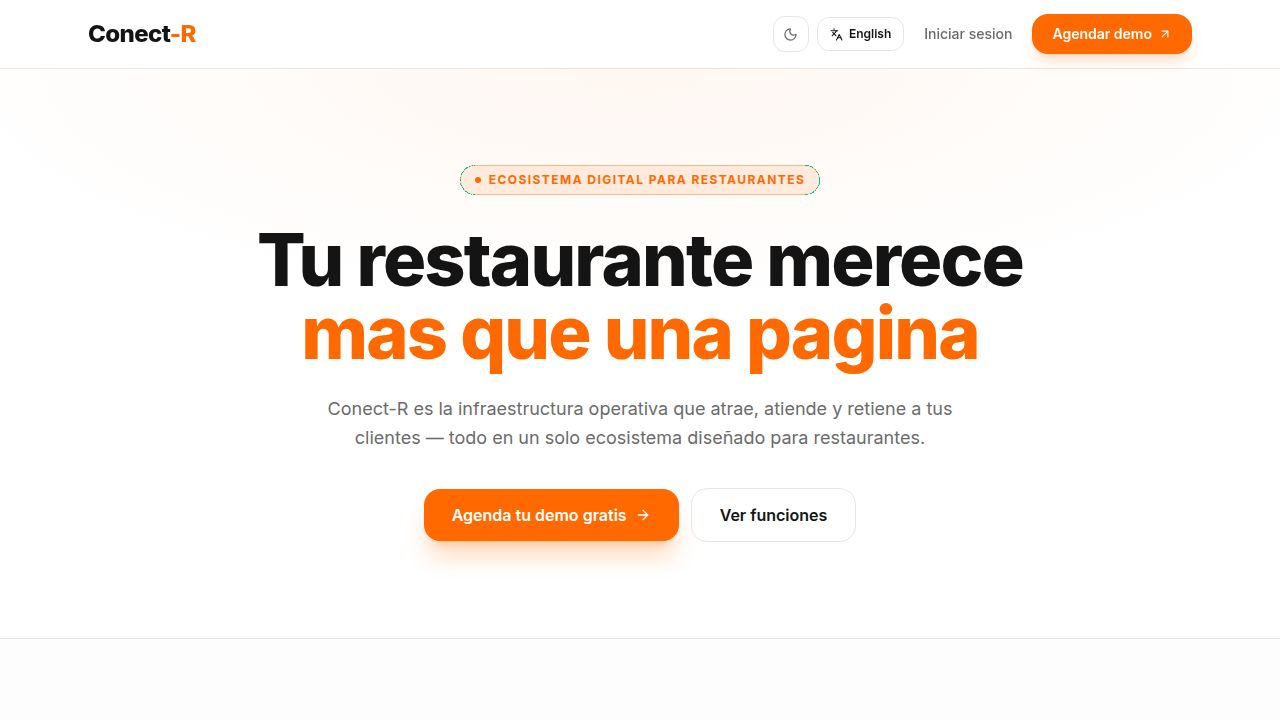
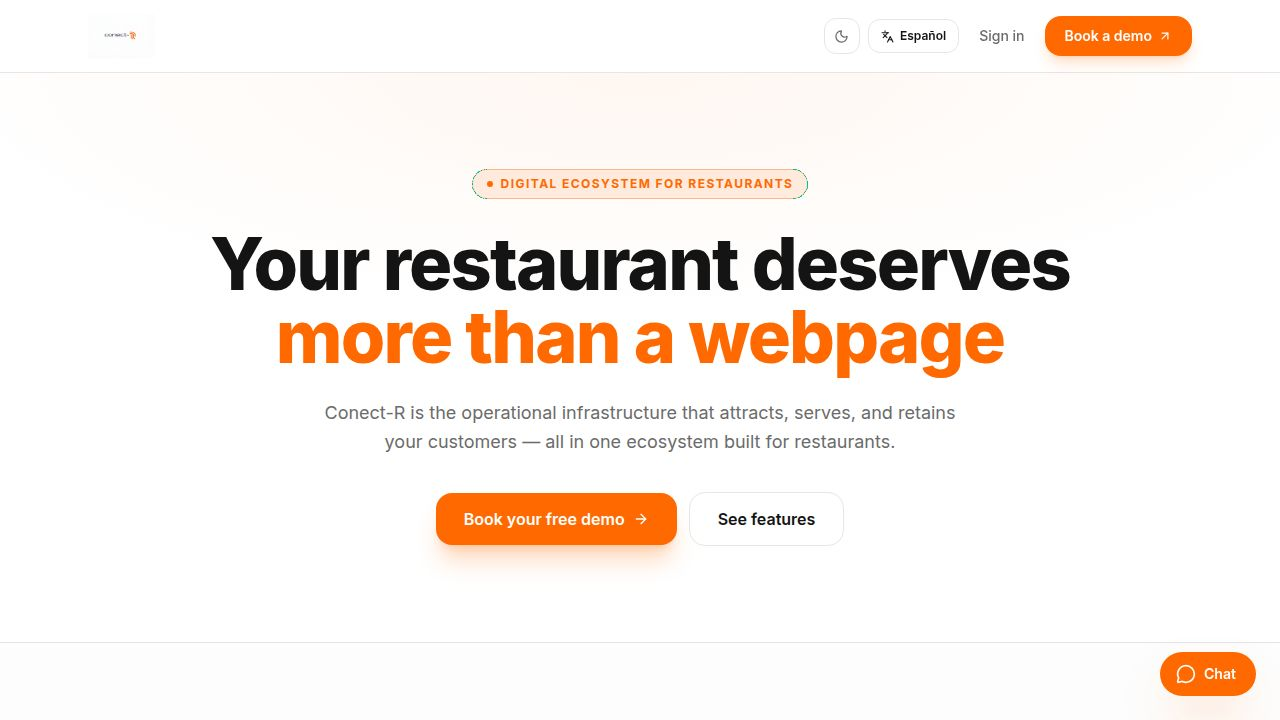
Update dashboard and restaurant menu with new branding and event features
Update Conect-R Dashboard to use an orange logo, remove the 'Projection' module, and re-theme the 'Chamba' section to orange. Enhance the Maya Cantina menu by adding an 'Upcoming Events' section, updating the address and operating hours, and replacing the 'Reserve Table' button with a link to the new events section.

Replit-Commit-Author: Agent
Replit-Commit-Session-Id: ad239d22-0fc0-4085-8d8a-514f75f98570
Replit-Commit-Checkpoint-Type: full_checkpoint
Replit-Commit-Event-Id: c524c5c3-b7be-4577-91ac-88dc84019778
Replit-Commit-Screenshot-Url: https://storage.googleapis.com/screenshot-production-us-central1/781c2eb4-d6fe-4788-91f9-eb0cdfc93976/ad239d22-0fc0-4085-8d8a-514f75f98570/hJeGd2k
Replit-Helium-Checkpoint-Created: true

diff --git a/artifacts/maya-menu/src/pages/Menu.tsx b/artifacts/maya-menu/src/pages/Menu.tsx
@@ -254,7 +254,7 @@ export default function Menu() {
         <div className="container mx-auto px-4 flex justify-between items-center relative">
           <div className={`transition-all duration-500 ease-in-out ${scrolled ? 'opacity-0 scale-95 pointer-events-none absolute' : 'opacity-100 scale-100 relative'} flex flex-col items-center justify-center w-full`}>
             <img src={`${import.meta.env.BASE_URL}maya-logo.jpeg`} alt="Maya Cantina" className="w-24 h-24 object-contain rounded-full shadow-lg border-2 border-[#D35400]/20 mb-3" />
-            <p className="text-xs text-gray-400 mt-1 uppercase tracking-widest text-center font-medium">Cocina Mexicana Autentica • Sacramento, CA</p>
+            <p className="text-xs text-gray-400 mt-1 uppercase tracking-widest text-center font-medium">Cocina Mexicana Autentica • 455 Bercut Dr, Sacramento, CA 95811</p>
           </div>
           
           <div className={`transition-all duration-500 flex items-center gap-3 ${scrolled ? 'opacity-100 translate-x-0' : 'opacity-0 -translate-x-4 pointer-events-none absolute'}`}>
@@ -262,13 +262,15 @@ export default function Menu() {
             <div className="text-xl font-serif font-bold text-[#D35400]">MAYA</div>
           </div>
 
-          <a 
-            href="https://tablereserve.conect-r.com/book/roosters-on-the-river" 
-            target="_blank" 
-            rel="noreferrer"
-            className={`bg-[#D35400] hover:bg-[#D35400]/90 text-white text-xs font-bold py-2.5 px-5 rounded-full uppercase tracking-wider transition-all shadow-[0_4px_14px_rgba(211,84,0,0.4)] ${scrolled ? '' : 'absolute right-4 top-4'}`}
+          <a
+            href="#eventos"
+            onClick={(e) => {
+              e.preventDefault();
+              document.getElementById("eventos")?.scrollIntoView({ behavior: "smooth", block: "start" });
+            }}
+            className={`bg-[#D35400] hover:bg-[#D35400]/90 text-white text-[11px] font-bold py-2 px-3.5 rounded-full uppercase tracking-wider transition-all shadow-[0_4px_14px_rgba(211,84,0,0.4)] ${scrolled ? '' : 'absolute right-3 top-3'}`}
           >
-            Reservar Mesa
+            Próximos Eventos
           </a>
         </div>
 
@@ -382,6 +384,95 @@ export default function Menu() {
         )}
       </main>
 
+      {/* Eventos */}
+      <section id="eventos" className="container mx-auto px-4 mt-16 scroll-mt-32">
+        <div className="text-center mb-8">
+          <h2 className="text-3xl md:text-4xl font-serif font-bold text-[#F0A500] tracking-wide mb-2">Próximos Eventos</h2>
+          <p className="text-gray-400 text-sm">Música en vivo, shows y noches especiales en Maya Cantina</p>
+        </div>
+
+        <div className="grid grid-cols-1 md:grid-cols-2 gap-6">
+          {[
+            {
+              id: "mariachi",
+              day: "Viernes",
+              time: "8:00 PM",
+              title: "Noche de Mariachi",
+              desc: "Los mejores mariachis de Sacramento llenan la cantina con tradición, sabor y romance. Música en vivo toda la noche.",
+              img: "https://images.unsplash.com/photo-1571266028253-6c1f7c75e1f0?w=800&h=600&fit=crop",
+              fallbackEmoji: "🎺",
+              color: "from-[#D35400] to-[#F0A500]",
+            },
+            {
+              id: "banda",
+              day: "Sábado",
+              time: "9:00 PM",
+              title: "Banda Machos en Vivo",
+              desc: "La legendaria Banda Machos llega a Maya Cantina. Una noche de banda, baile y energía pura. Cupo limitado.",
+              img: "https://images.unsplash.com/photo-1493225457124-a3eb161ffa5f?w=800&h=600&fit=crop",
+              fallbackEmoji: "🎷",
+              color: "from-[#7c2d12] to-[#D35400]",
+            },
+            {
+              id: "badbunny",
+              day: "Domingo",
+              time: "8:30 PM",
+              title: "Bad Bunny — Tributo en Vivo",
+              desc: "El mejor imitador de Bad Bunny de la costa oeste. Reggaetón, baile y ambiente de estadio en plena cantina.",
+              img: "https://images.unsplash.com/photo-1504680177321-2e6a879aac86?w=800&h=600&fit=crop",
+              fallbackEmoji: "🐰",
+              color: "from-[#a21caf] to-[#D35400]",
+            },
+            {
+              id: "pajares",
+              day: "Todos los Domingos",
+              time: "1:00 PM",
+              title: "Pajares — Show Familiar",
+              desc: "Los Pajares cada domingo: comedia, música y diversión para toda la familia mientras disfrutas el brunch.",
+              img: "https://images.unsplash.com/photo-1514525253161-7a46d19cd819?w=800&h=600&fit=crop",
+              fallbackEmoji: "🎭",
+              color: "from-[#2E7D32] to-[#F0A500]",
+            },
+          ].map((ev, i) => (
+            <motion.div
+              key={ev.id}
+              initial={{ opacity: 0, y: 30 }}
+              whileInView={{ opacity: 1, y: 0 }}
+              viewport={{ once: true, margin: "-50px" }}
+              transition={{ delay: i * 0.08, duration: 0.5 }}
+              className="bg-[#1A1A1A] rounded-3xl overflow-hidden shadow-xl border border-white/5 flex flex-col"
+            >
+              <div className={`h-56 w-full relative overflow-hidden bg-gradient-to-br ${ev.color}`}>
+                <img
+                  src={ev.img}
+                  alt={ev.title}
+                  className="w-full h-full object-cover opacity-70"
+                  loading="lazy"
+                  onError={(e) => { (e.target as HTMLImageElement).style.display = "none"; }}
+                />
+                <div className="absolute inset-0 bg-gradient-to-t from-[#1A1A1A] via-[#1A1A1A]/30 to-transparent" />
+                <div className="absolute top-4 left-4 bg-black/60 backdrop-blur-md px-3 py-1.5 rounded-full text-xs font-bold text-white uppercase tracking-wider">
+                  {ev.day} · {ev.time}
+                </div>
+                <div className="absolute bottom-4 right-4 text-5xl drop-shadow-lg">{ev.fallbackEmoji}</div>
+              </div>
+              <div className="p-6 flex-1 flex flex-col">
+                <h3 className="font-serif font-bold text-2xl leading-tight text-white mb-2">{ev.title}</h3>
+                <p className="text-gray-400 text-sm leading-relaxed flex-1 mb-5">{ev.desc}</p>
+                <a
+                  href="https://tablereserve.conect-r.com/book/roosters-on-the-river"
+                  target="_blank"
+                  rel="noreferrer"
+                  className="bg-[#D35400] hover:bg-[#D35400]/90 text-white text-sm font-bold py-3 px-5 rounded-2xl uppercase tracking-wider transition-all shadow-[0_4px_14px_rgba(211,84,0,0.4)] text-center"
+                >
+                  Reservar Mesa para el Evento
+                </a>
+              </div>
+            </motion.div>
+          ))}
+        </div>
+      </section>
+
       {/* Floating Socials */}
       <div className="fixed bottom-8 right-6 flex flex-col gap-4 z-30">
         <a 
@@ -407,11 +498,10 @@ export default function Menu() {
         <img src={`${import.meta.env.BASE_URL}maya-logo.jpeg`} alt="Maya Cantina" className="w-16 h-16 object-contain rounded-full mx-auto opacity-50 mb-6 grayscale" />
         <div className="font-serif text-2xl font-bold text-[#D35400] mb-4 opacity-80 tracking-widest">MAYA CANTINA</div>
         <div className="flex justify-center items-center gap-2 text-sm text-gray-400 mb-6 font-medium">
-          <MapPin size={16} className="text-[#F0A500]"/> Sacramento, CA
+          <MapPin size={16} className="text-[#F0A500]"/> 455 Bercut Dr, Sacramento, CA 95811
         </div>
         <div className="text-sm text-gray-500 space-y-3 max-w-xs mx-auto bg-white/5 p-4 rounded-2xl">
-          <p className="flex items-center justify-center gap-3"><Clock size={16} className="text-[#2E7D32]"/> Mar-Dom 5pm–10pm</p>
-          <p className="flex items-center justify-center gap-3"><Clock size={16} className="text-[#2E7D32]"/> Dom Brunch 11am–3pm</p>
+          <p className="flex items-center justify-center gap-3"><Clock size={16} className="text-[#2E7D32]"/> Lun-Dom 9am–10pm</p>
         </div>
         <div className="mt-10 pt-8 border-t border-white/5 text-xs text-gray-600 font-medium">
           <a href="https://mayacantina.toast.site" className="hover:text-[#D35400] transition-colors">mayacantina.toast.site</a>
@@ -497,7 +587,7 @@ export default function Menu() {
         )}
       </AnimatePresence>
 
-      <style dangerouslySetContentEditable>{`
+      <style>{`
         .hide-scrollbar::-webkit-scrollbar {
           display: none;
         }

diff --git a/artifacts/conectr-dashboard/src/components/modules/GestionOperativa.tsx b/artifacts/conectr-dashboard/src/components/modules/GestionOperativa.tsx
@@ -92,10 +92,10 @@ export default function GestionOperativa() {
       <div className="text-center">
         <h2 className="text-3xl font-serif font-bold gold-gradient mb-2">{T.heading}</h2>
         <p className="text-muted-foreground max-w-2xl mx-auto mb-4">
-          {T.description} <span className="text-orange-500 font-medium">{T.descSales}</span> {T.descAnd}{" "}
-          <span className="text-orange-500 font-medium">{T.descClients}</span> {T.descMid}{" "}
-          <span className="text-orange-500 font-medium">{T.descWork}</span> {T.descAnd2}{" "}
-          <span className="text-orange-500 font-medium">{T.descReviews}</span>.
+          {T.description} {T.descSales} {T.descAnd}{" "}
+          {T.descClients} {T.descMid}{" "}
+          {T.descWork} {T.descAnd2}{" "}
+          {T.descReviews}.
         </p>
         <ImpactPills />
         <div className="inline-block bg-orange-900/20 border border-orange-700/40 rounded-2xl px-6 py-3">
@@ -375,28 +375,28 @@ export default function GestionOperativa() {
       </AnimatePresence>
 
       {/* Chamba */}
-      <div className="maya-card rounded-2xl p-6 border border-blue-800/30" style={{ background: "linear-gradient(135deg, rgba(30,58,138,0.12), rgba(15,23,42,0.8))" }}>
+      <div className="maya-card rounded-2xl p-6 border border-orange-800/30" style={{ background: "linear-gradient(135deg, rgba(249,115,22,0.12), rgba(15,23,42,0.8))" }}>
         <div className="flex items-start gap-4 mb-5">
-          <div className="w-16 h-16 rounded-2xl bg-white/5 border border-blue-700/30 flex items-center justify-center shrink-0 overflow-hidden">
+          <div className="w-16 h-16 rounded-2xl bg-white/5 border border-orange-700/30 flex items-center justify-center shrink-0 overflow-hidden">
             <img src="/chamba-logo.png" alt="Chamba" className="w-14 h-14 object-contain" />
           </div>
           <div className="flex-1">
             <div className="flex items-center gap-2 mb-1">
-              <h4 className="text-base font-bold text-blue-300">{T.chambaTitle}</h4>
-              <span className="text-xs px-2 py-0.5 bg-blue-500/15 border border-blue-500/30 text-blue-300 rounded-full">{T.chambaBadge}</span>
+              <h4 className="text-base font-bold text-orange-300">{T.chambaTitle}</h4>
+              <span className="text-xs px-2 py-0.5 bg-orange-500/15 border border-orange-500/30 text-orange-300 rounded-full">{T.chambaBadge}</span>
             </div>
             <p className="text-sm text-muted-foreground">
-              {T.chambaDesc} <span className="text-blue-300 font-medium">{T.chambaHighlight}</span> {T.chambaDesc2}
+              {T.chambaDesc} {T.chambaHighlight} {T.chambaDesc2}
             </p>
           </div>
         </div>
 
         <div className="grid grid-cols-1 sm:grid-cols-2 lg:grid-cols-3 gap-3">
           {T.chambaFeatures.map(item => (
-            <div key={item.title} className="flex gap-3 p-3 bg-blue-900/10 border border-blue-800/20 rounded-xl">
+            <div key={item.title} className="flex gap-3 p-3 bg-orange-900/10 border border-orange-800/20 rounded-xl">
               <span className="text-xl shrink-0">{item.emoji}</span>
               <div>
-                <div className="text-xs font-semibold text-blue-200 mb-0.5">{item.title}</div>
+                <div className="text-xs font-semibold text-orange-200 mb-0.5">{item.title}</div>
                 <div className="text-xs text-muted-foreground leading-snug">{item.desc}</div>
               </div>
             </div>

diff --git a/artifacts/conectr-dashboard/src/pages/Dashboard.tsx b/artifacts/conectr-dashboard/src/pages/Dashboard.tsx
@@ -1,7 +1,7 @@
 import { useEffect, useState } from "react";
 import { motion, AnimatePresence } from "framer-motion";
 import {
-  Wifi, BarChart2, Monitor, Globe, Palette, TrendingUp,
+  Wifi, BarChart2, Monitor, Globe, Palette,
   Menu, X, ChevronRight, Instagram, Languages, Sun, Moon
 } from "lucide-react";
 import SmartTable from "@/components/modules/SmartTable";
@@ -10,11 +10,10 @@ import DigitalSignage from "@/components/modules/DigitalSignage";
 import PresenciaDigital from "@/components/modules/PresenciaDigital";
 import RedesSociales from "@/components/modules/RedesSociales";
 import ModuloCreativo from "@/components/modules/ModuloCreativo";
-import AntesDepues from "@/components/modules/AntesDepues";
 import { useLang } from "@/lib/i18n";
 import { getT } from "@/lib/translations";
 
-const MODULE_ICONS = [Wifi, BarChart2, Monitor, Globe, Instagram, Palette, TrendingUp];
+const MODULE_ICONS = [Wifi, BarChart2, Monitor, Globe, Instagram, Palette];
 const MODULE_COLORS = [
   "from-amber-600 to-amber-400",
   "from-orange-700 to-orange-500",
@@ -22,10 +21,9 @@ const MODULE_COLORS = [
   "from-orange-700 to-orange-500",
   "from-pink-700 to-pink-500",
   "from-purple-700 to-purple-500",
-  "from-green-700 to-green-500",
 ];
-const MODULE_IDS = ["smart-table", "gestion", "signage", "presencia", "redes", "creativo", "resultados"];
-const MODULE_COMPONENTS = [SmartTable, GestionOperativa, DigitalSignage, PresenciaDigital, RedesSociales, ModuloCreativo, AntesDepues];
+const MODULE_IDS = ["smart-table", "gestion", "signage", "presencia", "redes", "creativo"];
+const MODULE_COMPONENTS = [SmartTable, GestionOperativa, DigitalSignage, PresenciaDigital, RedesSociales, ModuloCreativo];
 
 export default function Dashboard() {
   const [activeModule, setActiveModule] = useState(() => {
@@ -73,7 +71,7 @@ export default function Dashboard() {
         <div className="flex items-center justify-between px-4 py-3">
           {/* Logo */}
           <a href={import.meta.env.BASE_URL} className="flex items-center gap-3 shrink-0">
-            <img src="/conectr-logo.png" alt="Conect-R" className="h-14 lg:h-16 object-contain" style={{ filter: "brightness(1.15)" }} />
+            <img src={`${import.meta.env.BASE_URL}conectr-logo.png`} alt="Conect-R" className="h-14 lg:h-16 object-contain" />
             <div className="hidden xl:block text-xs text-muted-foreground leading-none">{T.global.ecosistema}</div>
           </a>
 

diff --git a/artifacts/conectr-dashboard/src/components/modules/SmartTable.tsx b/artifacts/conectr-dashboard/src/components/modules/SmartTable.tsx
@@ -156,10 +156,10 @@ export default function SmartTable() {
       <div className="text-center">
         <h2 className="text-3xl font-serif font-bold gold-gradient mb-2">{T.heading}</h2>
         <p className="text-muted-foreground max-w-2xl mx-auto">
-          {T.description} <span className="text-orange-500 font-medium">{T.descReviews}</span>
-          {T.desc2}<span className="text-orange-500 font-medium">{T.descClients}</span>
-          {T.desc3}<span className="text-orange-500 font-medium">{T.descSales}</span>
-          {T.desc4}<span className="text-orange-500 font-medium">{T.descWork}</span>{T.desc5}
+          {T.description} {T.descReviews}
+          {T.desc2}{T.descClients}
+          {T.desc3}{T.descSales}
+          {T.desc4}{T.descWork}{T.desc5}
         </p>
         <ImpactPills />
       </div>

diff --git a/artifacts/conectr-dashboard/src/components/modules/DigitalSignage.tsx b/artifacts/conectr-dashboard/src/components/modules/DigitalSignage.tsx
@@ -63,9 +63,9 @@ export default function DigitalSignage() {
       <div className="text-center">
         <h2 className="text-3xl font-serif font-bold gold-gradient mb-2">{T.heading}</h2>
         <p className="text-muted-foreground max-w-2xl mx-auto">
-          {T.description} <span className="text-orange-500 font-medium">{T.descSales}</span> {T.descMid}{" "}
-          <span className="text-orange-500 font-medium">{T.descClients}</span> {T.descAnd}{" "}
-          <span className="text-orange-500 font-medium">{T.descWork}</span> {T.descEnd}
+          {T.description} {T.descSales} {T.descMid}{" "}
+          {T.descClients} {T.descAnd}{" "}
+          {T.descWork} {T.descEnd}
         </p>
         <ImpactPills />
       </div>

diff --git a/artifacts/conectr-dashboard/src/components/modules/RedesSociales.tsx b/artifacts/conectr-dashboard/src/components/modules/RedesSociales.tsx
@@ -70,9 +70,9 @@ export default function RedesSociales() {
       <div className="text-center">
         <h2 className="text-3xl font-serif font-bold gold-gradient mb-2">{T.heading}</h2>
         <p className="text-muted-foreground max-w-2xl mx-auto">
-          {T.description} <span className="text-orange-500 font-medium">{T.descEngagement}</span>{T.descMid}{" "}
-          <span className="text-orange-500 font-medium">{T.descFollowers}</span> {T.descAnd}{" "}
-          <span className="text-orange-500 font-medium">{T.descClients}</span>{T.descEnd}
+          {T.description} {T.descEngagement}{T.descMid}{" "}
+          {T.descFollowers} {T.descAnd}{" "}
+          {T.descClients}{T.descEnd}
         </p>
         <ImpactPills />
       </div>

diff --git a/artifacts/maya-portal/src/pages/Portal.tsx b/artifacts/maya-portal/src/pages/Portal.tsx
@@ -231,7 +231,7 @@ export default function Portal() {
             AUTHENTIC MEXICAN CUISINE
           </div>
           <div style={{ marginTop: 6, fontSize: 13, color: "#8b7355" }}>
-            Sacramento, California
+            455 Bercut Dr, Sacramento, CA 95811
           </div>
         </div>
 
@@ -391,8 +391,7 @@ export default function Portal() {
 
         {/* Hours note */}
         <div style={{ textAlign: "center", marginTop: 16, fontSize: 11, color: "#4a3a22", lineHeight: 1.6 }}>
-          Tue–Thu 5–10pm · Fri–Sat 5–11pm<br />
-          Sun Brunch 11am–3pm · Monday closed
+          Open daily · Mon–Sun 9am–10pm
         </div>
       </div>
 

diff --git a/artifacts/conectr-dashboard/src/components/modules/ModuloCreativo.tsx b/artifacts/conectr-dashboard/src/components/modules/ModuloCreativo.tsx
@@ -92,8 +92,8 @@ export default function ModuloCreativo() {
       <div className="text-center">
         <h2 className="text-3xl font-serif font-bold gold-gradient mb-2">{T.heading}</h2>
         <p className="text-muted-foreground max-w-2xl mx-auto">
-          {T.description} <span className="text-orange-500 font-medium">{T.descSales}</span> {T.descMid}{" "}
-          <span className="text-orange-500 font-medium">{T.descTicket}</span>{T.descEnd}
+          {T.description} {T.descSales} {T.descMid}{" "}
+          {T.descTicket}{T.descEnd}
         </p>
         <ImpactPills />
       </div>

diff --git a/artifacts/conectr-dashboard/src/lib/translations.ts b/artifacts/conectr-dashboard/src/lib/translations.ts
@@ -184,7 +184,6 @@ const translations = {
       { id: "presencia", label: "Presencia Digital", sublabel: "Web & AI Chat" },
       { id: "redes", label: "Redes Sociales", sublabel: "Instagram & Facebook" },
       { id: "creativo", label: "Diseño de Menú", sublabel: "Menú Imprimible" },
-      { id: "resultados", label: "Proyección", sublabel: "Con Conect-R" },
     ],
 
     smartTable: {
@@ -711,7 +710,6 @@ const translations = {
       { id: "presencia", label: "Digital Presence", sublabel: "Web & AI Chat" },
       { id: "redes", label: "Social Media", sublabel: "Instagram & Facebook" },
       { id: "creativo", label: "Menu Design", sublabel: "Printable Menu" },
-      { id: "resultados", label: "Projection", sublabel: "With Conect-R" },
     ],
 
     smartTable: {

diff --git a/artifacts/conectr-dashboard/src/pages/Landing.tsx b/artifacts/conectr-dashboard/src/pages/Landing.tsx
@@ -109,7 +109,7 @@ function Pill({ children }: { children: React.ReactNode }) {
 /* ───────────── Wordmark — "Conect-" + R con ondas wifi en naranja ───────────── */
 
 function Wordmark({ size = "base" }: { size?: "base" | "lg" }) {
-  const h = size === "lg" ? 38 : 26;
+  const h = size === "lg" ? 56 : 44;
   return (
     <img
       src={conectrLogo}